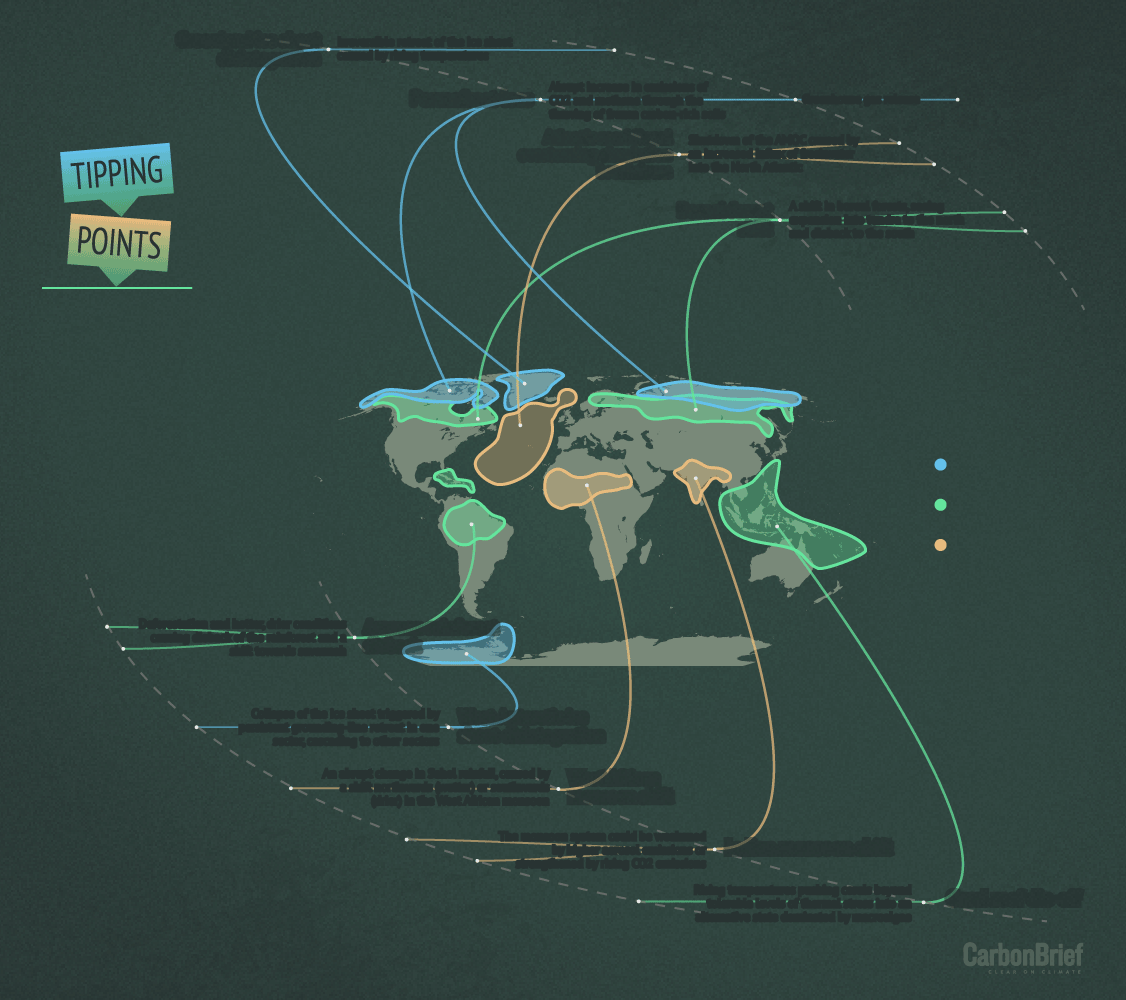
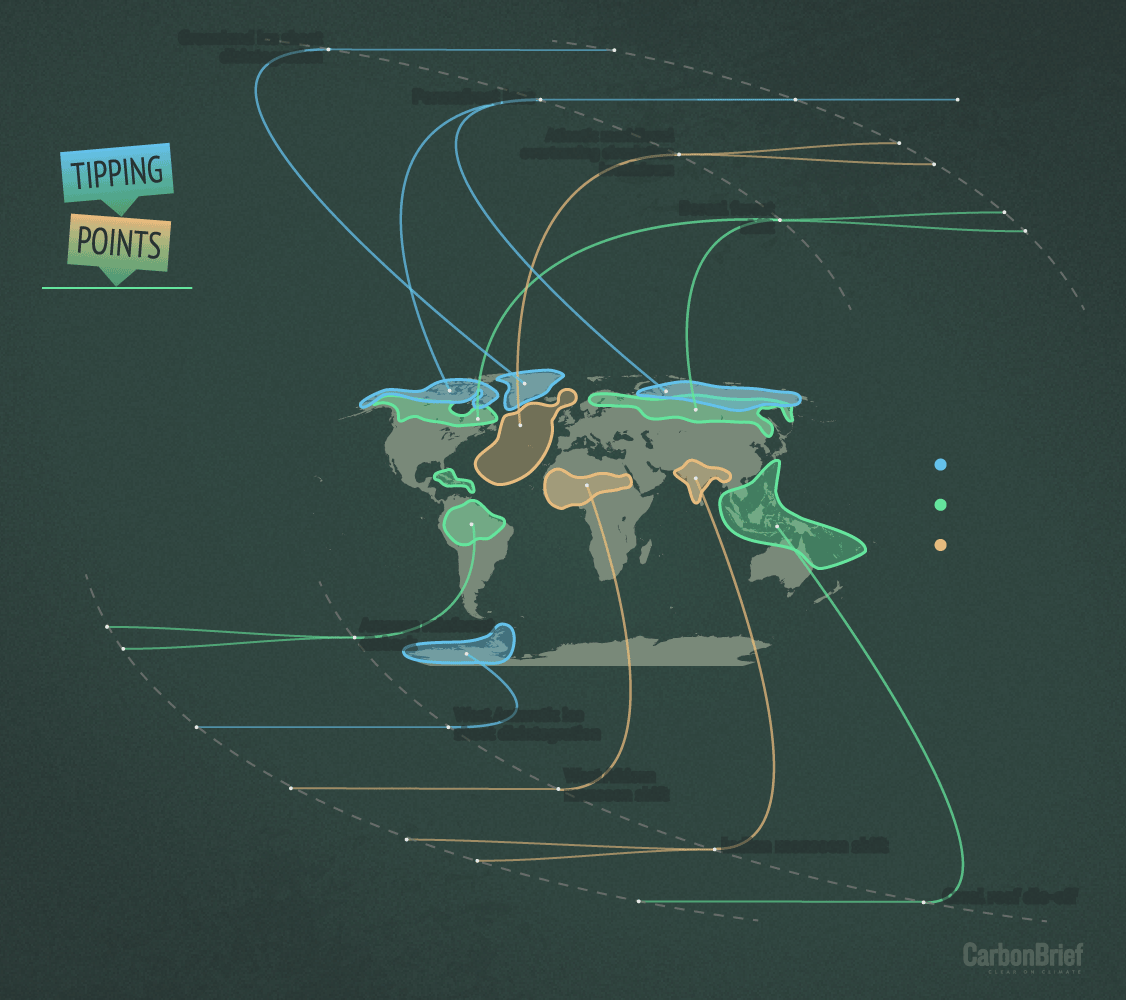
Updates

diff --git a/ai2html/tipping-points-tablet.html b/ai2html/tipping-points-tablet.html
@@ -1,5 +1,5 @@
 
-<!-- Generated by ai2html v0.81.4 - 2020-02-03 16:41 -->
+<!-- Generated by ai2html v0.81.4 - 2020-02-04 10:33 -->
 <!-- ai file: tipping-points-tablet.ai -->
 <style type='text/css' media='screen,print'>
 	#g-tipping-points-tablet-box .g-artboard {
@@ -145,13 +145,6 @@
 		height:10px;
 		color:rgb(101,229,156);
 	}
-	#g-tipping-points-tablet-Artboard_1 .g-pstyle14 {
-		font-family:'PT Sans Narrow',arial,helvetica,sans-serif;
-		font-weight:700;
-		font-size:12px;
-		line-height:14px;
-		height:14px;
-	}
 
 </style>
 
@@ -287,11 +280,8 @@
 		<div id="g-ai0-40" class="g-Dendrogram_other_text g-aiAbs g-aiPointText" style="top:90.0352%;margin-top:-3.2px;left:47.5971%;width:67px;">
 			<p class="g-pstyle1">Ecological change</p>
 		</div>
-		<div id="g-ai0-41" class="g-title g-aiAbs g-aiPointText" style="top:95.3477%;margin-top:-7.7px;left:4.0882%;width:79px;">
-			<p class="g-pstyle14">Scroll right > </p>
-		</div>
 	</div>
 
 </div>
 
-<!-- End ai2html - 2020-02-03 16:41 -->
+<!-- End ai2html - 2020-02-04 10:33 -->

diff --git a/css/responsive.css b/css/responsive.css
@@ -33,9 +33,9 @@
         height: 800px;
     }
 
-    /*#ai2html {
-        margin-top: 80px;
-    }*/
+    #ai2html {
+        margin-left: 20px;
+    }
 
     h1 {
         font-size: 24px;
@@ -64,7 +64,7 @@
     }
 
     #ai2html {
-        width: 919px;
+        width: 562px;
         height: 500px;
         margin-top: 0px;
     }

diff --git a/ai2html/tipping-points-laptop.html b/ai2html/tipping-points-laptop.html
@@ -4,6 +4,7 @@
 <style type='text/css' media='screen,print'>
 	#g-tipping-points-laptop-box .g-artboard {
 		margin:0 auto;
+		margin-left:0px;
 	}
 	#g-tipping-points-laptop-box .g-artboard p {
 		margin:0;
